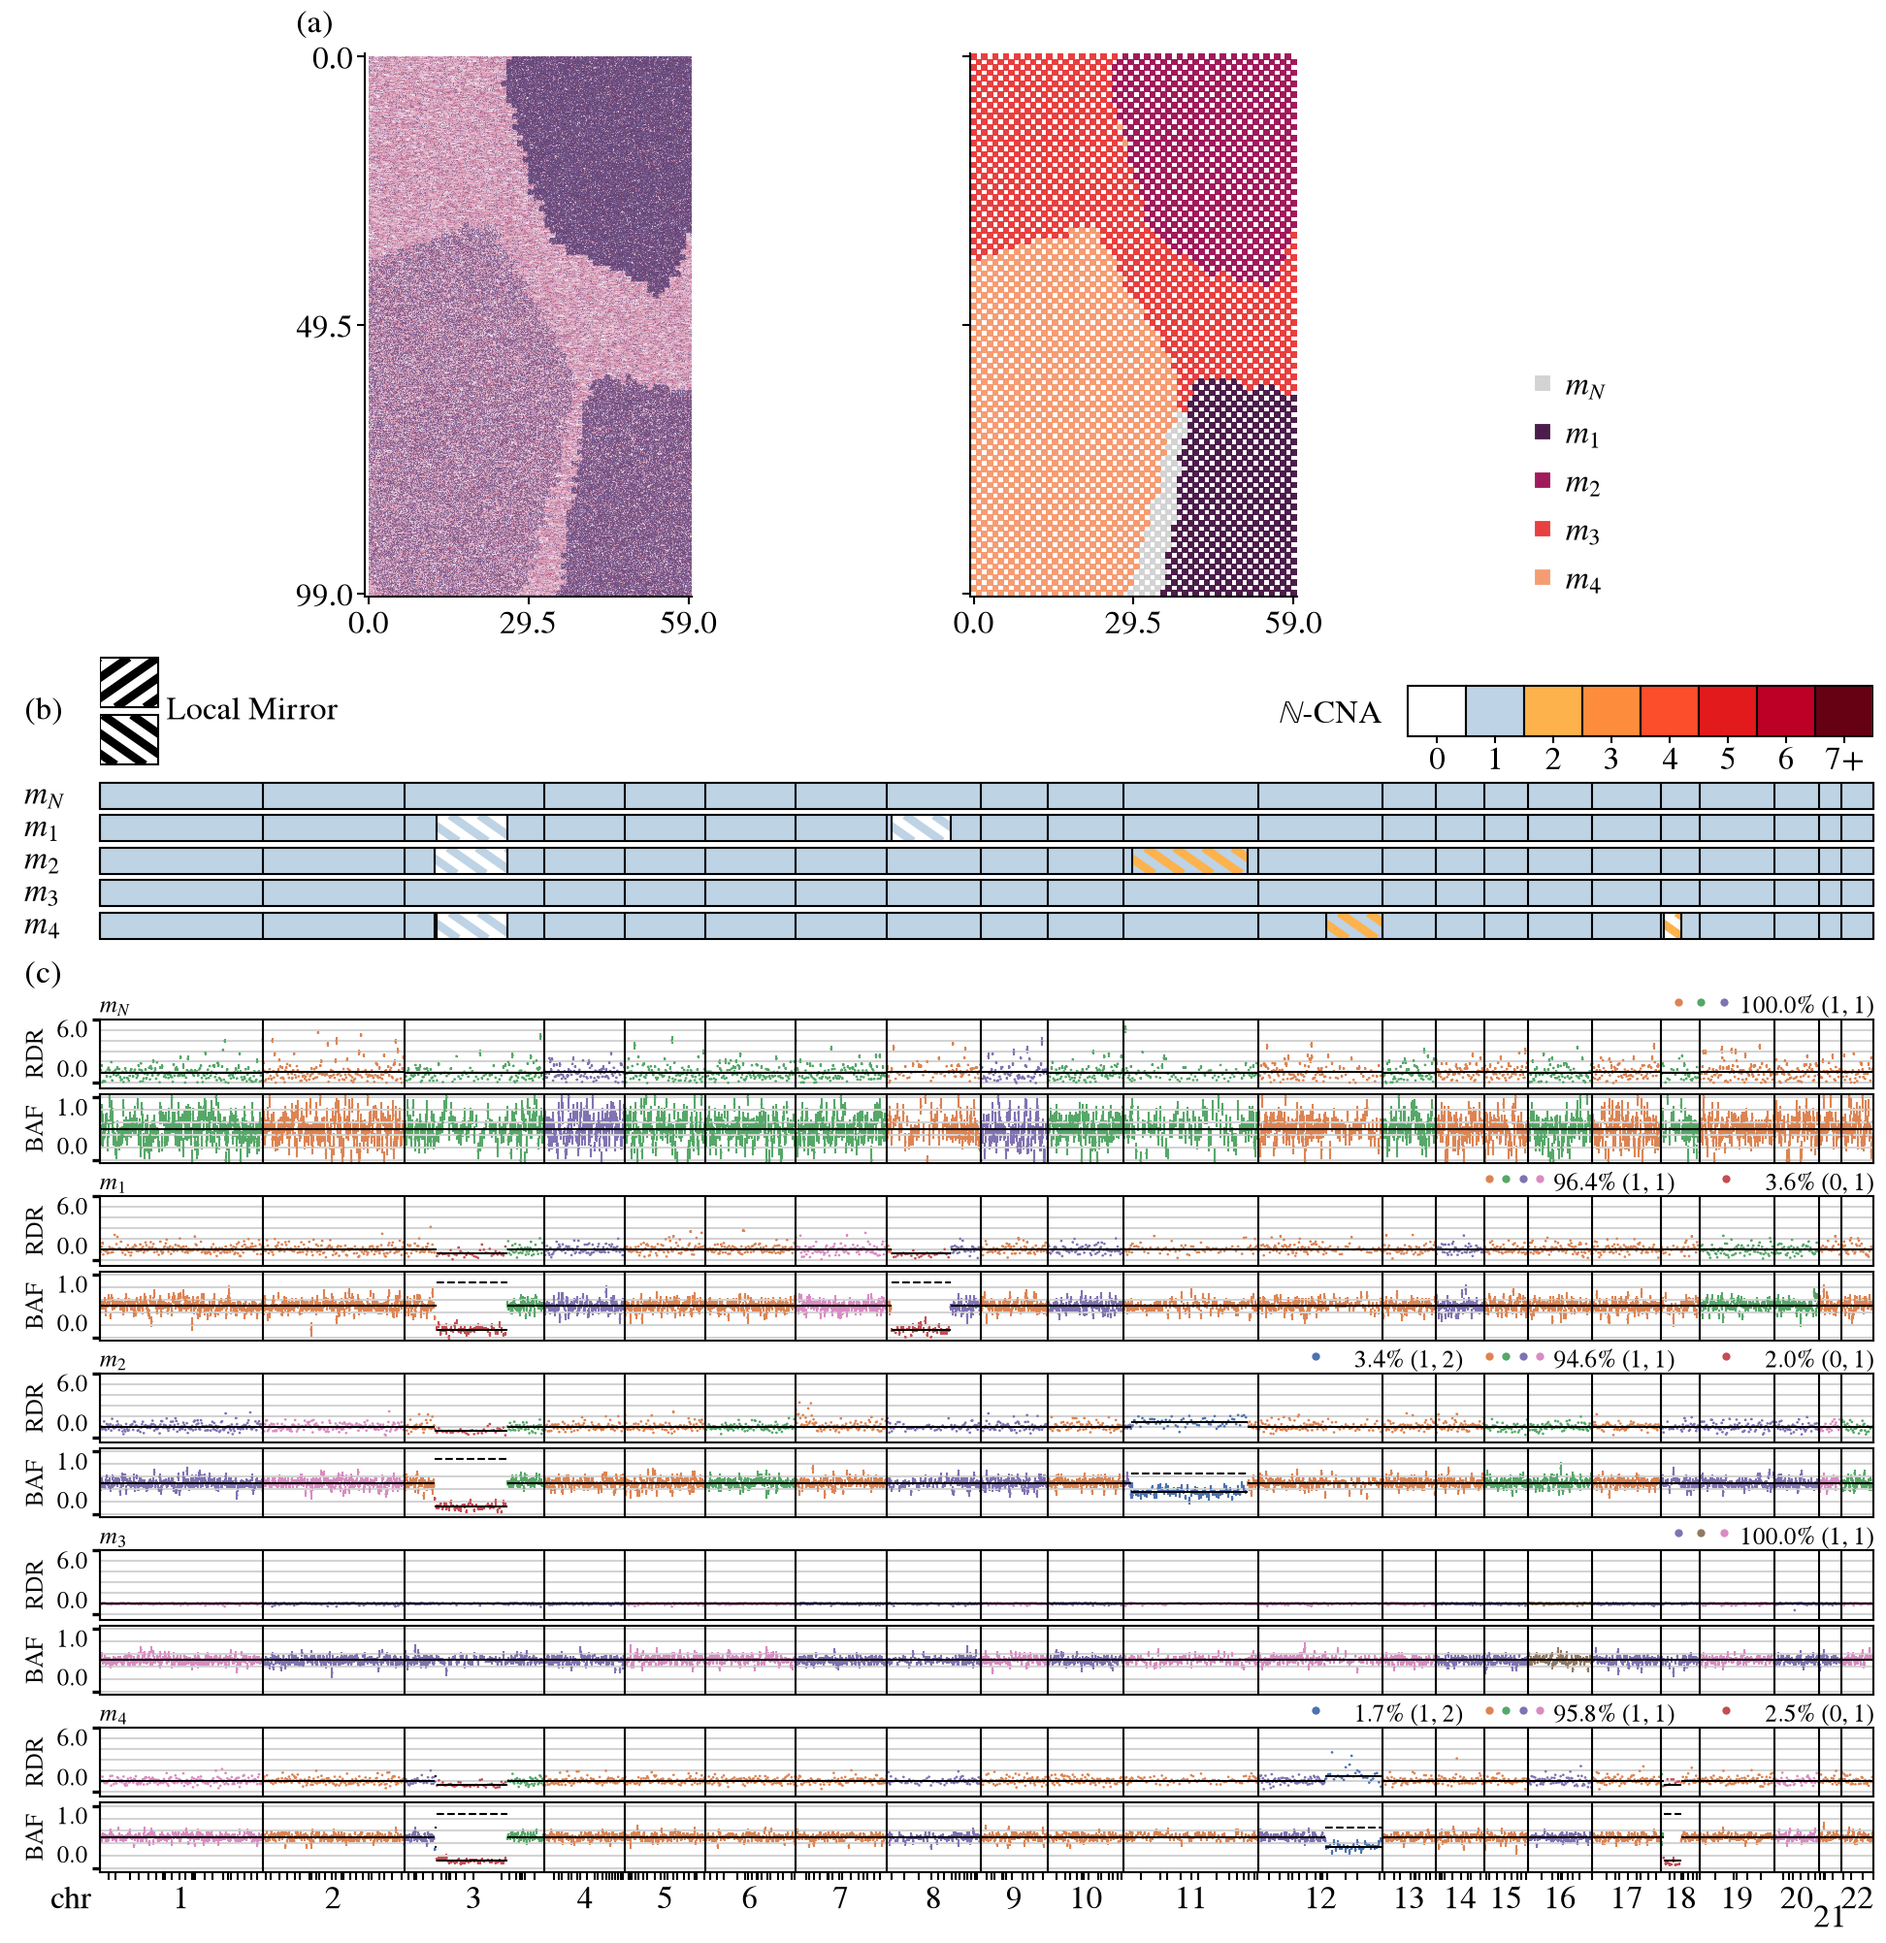
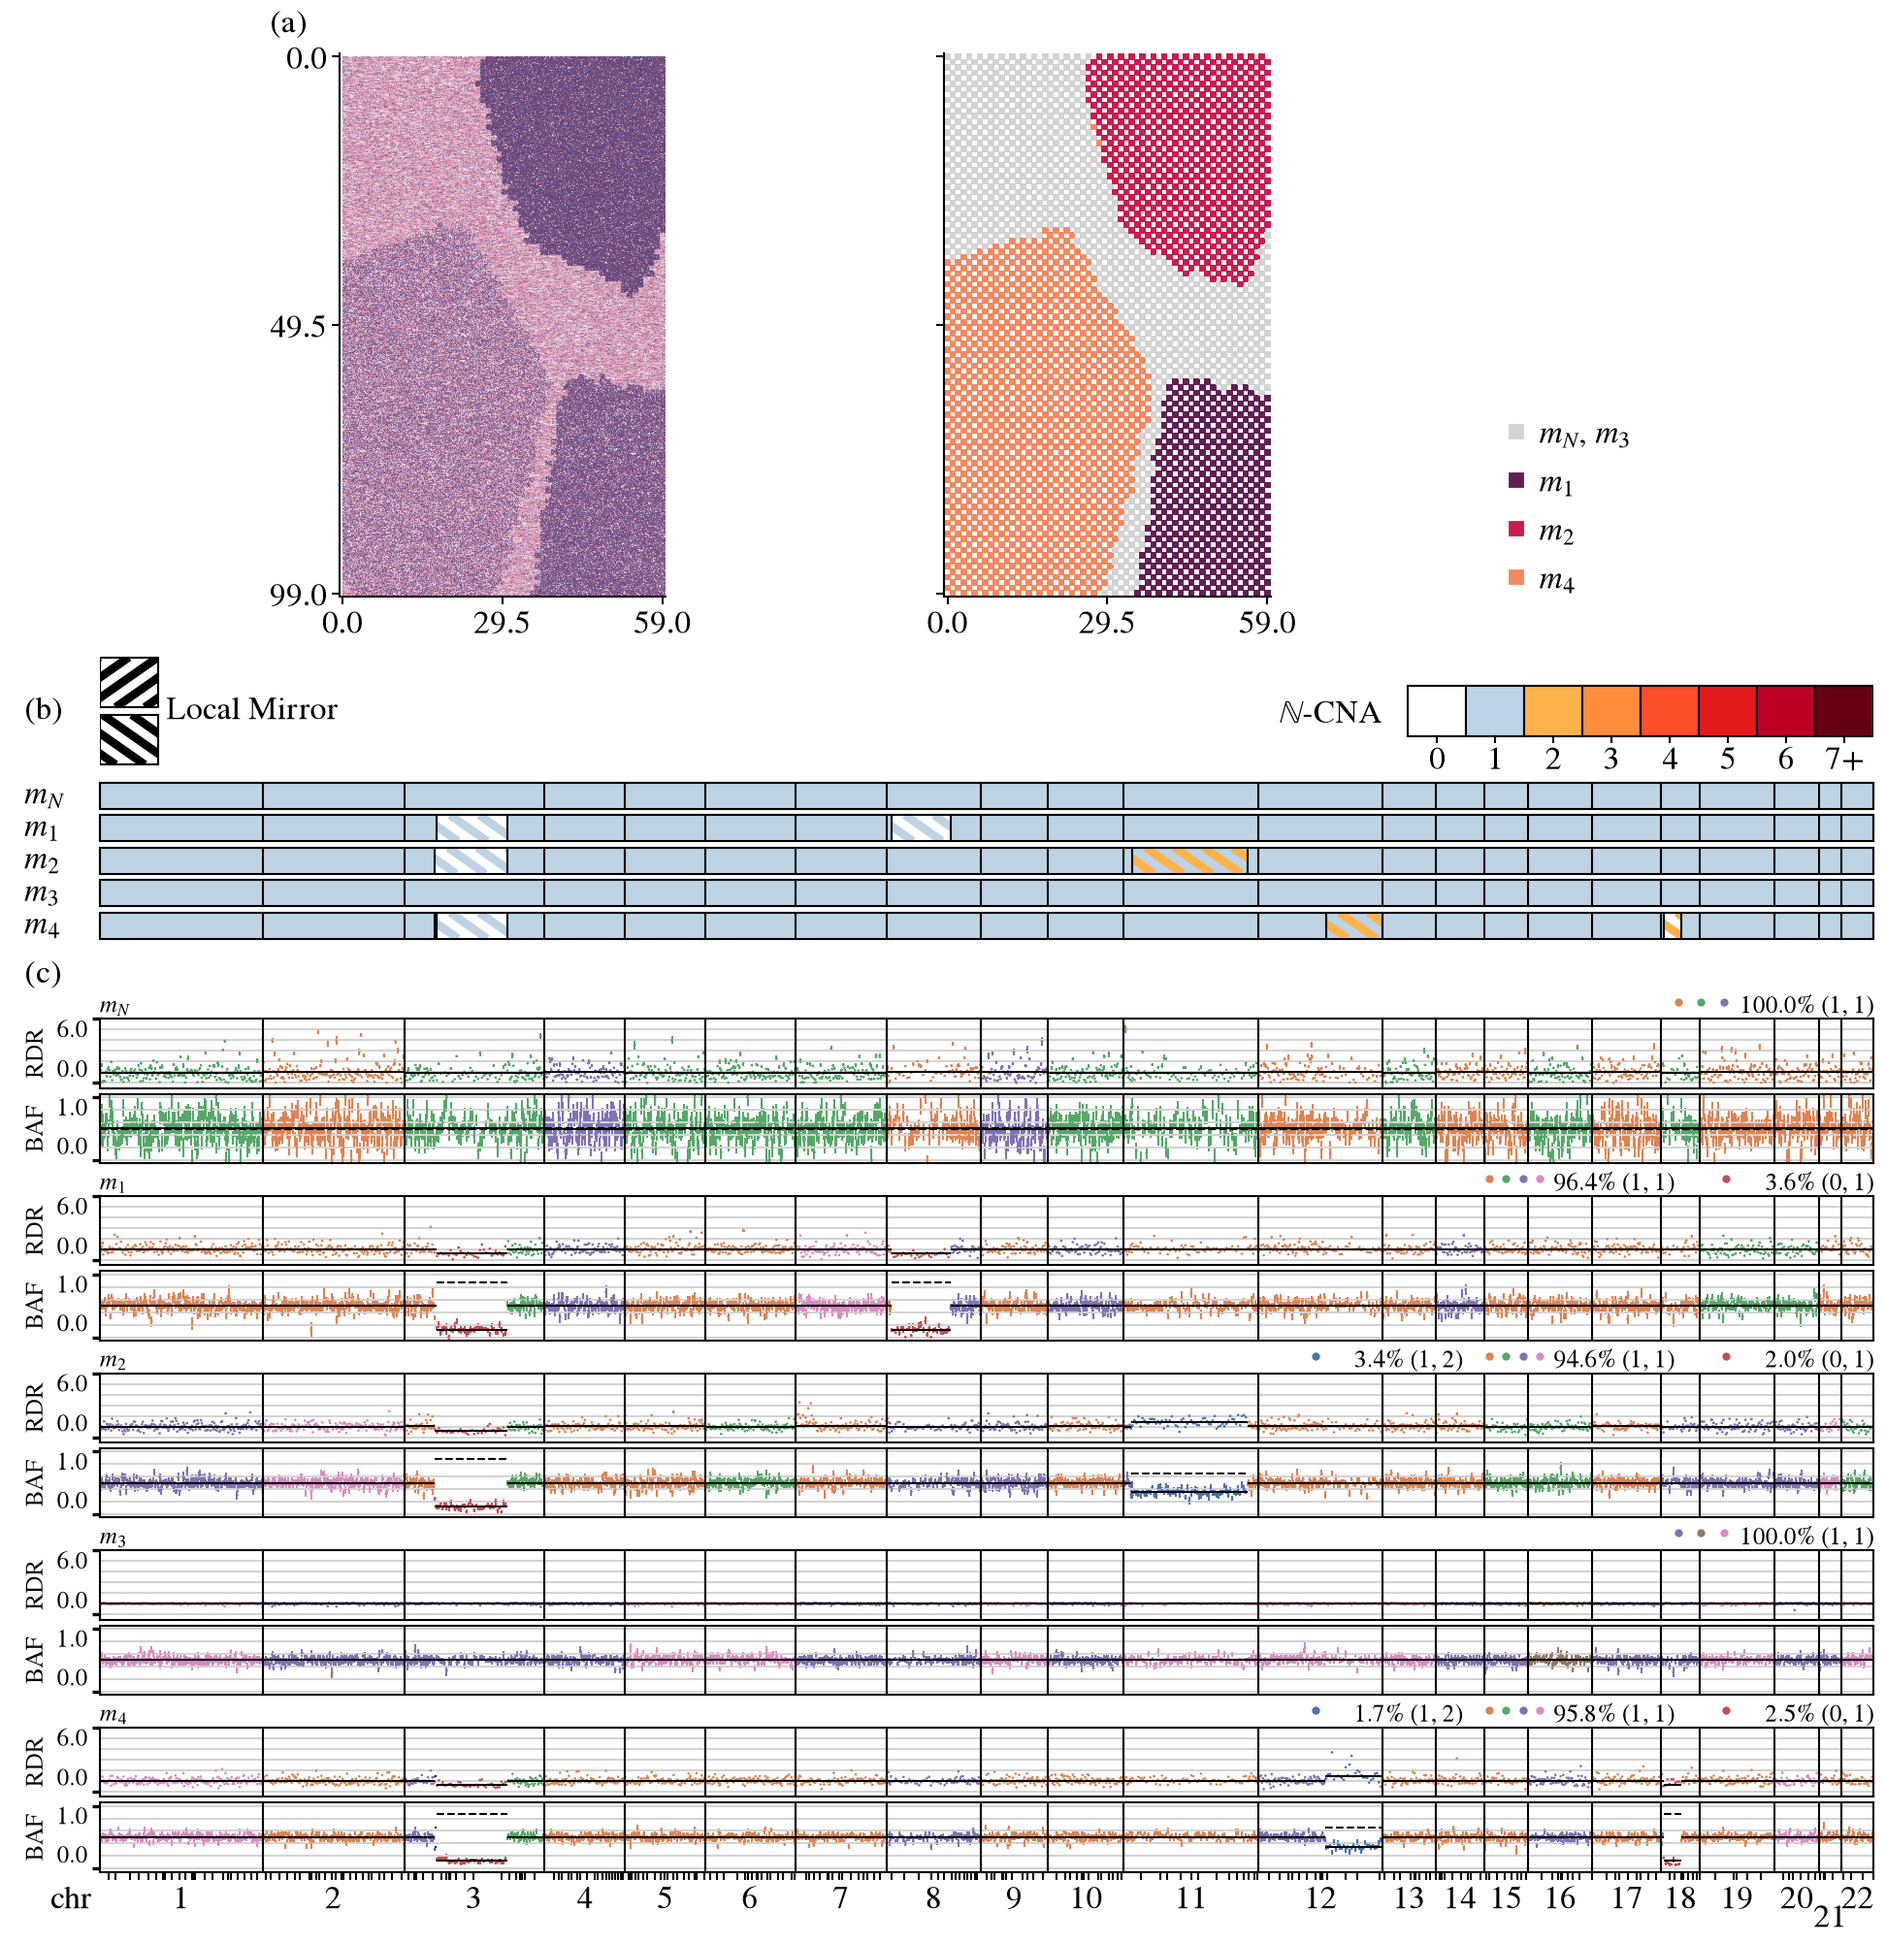
docs/plots/paper at 335971f: integer clone map, solver_combined complete
- run/combined.png and run/spatial.png: integer clones again (m_N, m_3 one
  colour, both named); truth/ and compare/ unchanged byte for byte.
- solver_combined.png: (b) from the untuned copy-state stream, 5
  realizations x 5 seeds of dev_tree_1s_hard (record 62375f46); (a) the
  untuned Potts stream (40f0c8a2). solver_combined.md names both.
- Ledger run 335971f-dev_tree_1s_easy_r0-0041: clone ARI 0.9798 as before.

Claude-Session: https://claude.ai/code/session_01JXaY8ogGJw3Lo2bAgEaAaH

diff --git a/docs/plots/paper/README.md b/docs/plots/paper/README.md
@@ -4,8 +4,8 @@
 0.9335, exact altered (phase-free)
 0.8992 (phased 0.1473), from one
 `run_cnaster_port --sal --png-copies` run on `sim/manifests/dev_tree_1s_easy.toml` r0 at
-code `9a684c7`: 106 s wall, 3.42 GB peak.
-Ledger `run_id` `9a684c7-dev_tree_1s_easy_r0-0009` (`docs/metrics/`, fixture `dev_tree_1s_easy_r0` `7ba9b01f`).
+code `335971f`: 106 s wall, 3.48 GB peak.
+Ledger `run_id` `335971f-dev_tree_1s_easy_r0-0041` (`docs/metrics/`, fixture `dev_tree_1s_easy_r0` `7ba9b01f`).
 
 Regenerate from a clean tree, so the commit above carries no `+`; it draws r0 into
 `.cache/paper_figures/` where `--draw` is not given, and refuses any r0 not
@@ -15,7 +15,7 @@ hashing to `7ba9b01f`:
 
 `--truth-only` writes `truth/` alone, with no run. The figures carry no stamp
 (#743): every figure here but `solver_combined.png` is `dev_tree_1s_easy` r0 `7ba9b01f` at
-code `9a684c7`, as above. `run/spatial.png` and `run/combined.png`
+code `335971f`, as above. `run/spatial.png` and `run/combined.png`
 draw panel (a) on a slide mocked from the planted labels (`port.sim.he_slide`):
 the fixture has no H&E image, and the run never reads the mock.
 `truth/phase.png` is flat: this r0 plants 0 phase switches.

diff --git a/docs/plots/paper/solver_combined.md b/docs/plots/paper/solver_combined.md
@@ -1,12 +1,12 @@
 # solver_combined.png
 
-Drawn at code `c882952` from two records on `sim/manifests/dev_tree_1s_hard.toml`, each problem built by
+Drawn at code `335971f+` from two records on `sim/manifests/dev_tree_1s_hard.toml`, each problem built by
 `run_cnaster_port --sal` at the planted clones (`port.studies.stage`, #730, #742):
 
 | Panel | Record | Data hash | Problems | Starts | Samplers |
 | --- | --- | --- | --- | --- | --- |
 | (a) spatial solvers | `port.studies.potts_stream` | `40f0c8a2` | 5 | 5 | settings file |
-| (b) copy-state starts | `port.studies.copy_state_stream` | `None` | 0 | None | settings file |
+| (b) copy-state starts | `port.studies.copy_state_stream` | `62375f46` | 5 | 5 | settings file |
 
 Where a sampler reads a settings file (`potts_sampler_settings.json`, `copy_sampler_settings.json`),
 it was tuned before the harness, on problems the run does not solve: these panels are
